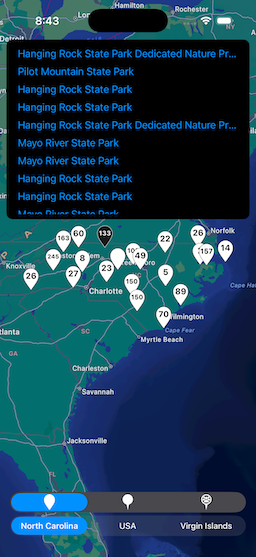
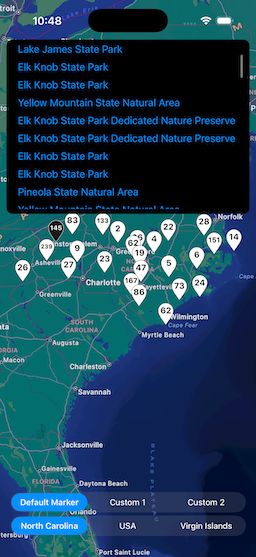
We now display alerts for both test harnesses.

diff --git a/Tests/SwiftUITestHarness/BJJM_SwiftUIMainView.swift b/Tests/SwiftUITestHarness/BJJM_SwiftUIMainView.swift
@@ -49,6 +49,8 @@ struct BJJM_BigJuJuMapViewController: UIViewControllerRepresentable {
      If true, multiple (aggregate) markers will display the number of elements aggregated. Default is true.
      */
     var displayNumbers = true
+    
+    var onTap: (@MainActor (_ item: any BigJuJuMapLocationProtocol) -> Void)? = nil
 
     /* ################################################################## */
     /**
@@ -72,7 +74,9 @@ struct BJJM_BigJuJuMapViewController: UIViewControllerRepresentable {
      - parameter context: The context (ignored)
      */
     func updateUIViewController(_ inUIViewController: BigJuJuMap.BigJuJuMapViewController, context: Context) {
-        guard let dataFrame = BJJM_LocationFactory.locationData(from: self.dataSetName) else { return }
+        guard let dataFrame = BJJM_LocationFactory.locationData(from: self.dataSetName),
+              let onTap
+        else { return }
         
         let locations: [any BigJuJuMapLocationProtocol] = dataFrame.rows.flatMap { inRow -> [any BigJuJuMapLocationProtocol] in
             guard let id = inRow.int("id"),
@@ -81,11 +85,8 @@ struct BJJM_BigJuJuMapViewController: UIViewControllerRepresentable {
                   let longitude = inRow.double("longitude")
             else { return [] }
 
-            // NOTE: We use a console print, so we don't have to do a bunch of stuff to escape the wrapped environment.
             return [
-                BJJM_MapLocation(id: id, name: name, latitude: latitude, longitude: longitude) { inItem in
-                    print("Tapped: \(inItem.name) @ \(inItem.location.coordinate.latitude), \(inItem.location.coordinate.longitude)")
-                }
+                BJJM_MapLocation(id: id, name: name, latitude: latitude, longitude: longitude) { inItem in Task { @MainActor in onTap(inItem) } }
             ]
         }
 
@@ -144,13 +145,28 @@ struct BJJM_SwiftUIMainView: View {
      The currently selected bottom segment.
      */
     @State private var _bottomIndex: Int = 0
+    
+    /* ################################################################## */
+    /**
+     This is true, when we want to display an alert, upon selecting a popover item.
+     */
+    @State private var _showingAlert: Bool = false
+    
+    /* ################################################################## */
+    /**
+     This is the text we want displayed in the alert.
+     */
+    @State private var _alertMessage: String = ""
 
     /* ################################################################## */
     /**
      This returns a view, with the map filling the screen, behind the two segmented switches.
      */
     var body: some View {
-        BJJM_BigJuJuMapViewController(markerNames: Self._topOptions[self._topIndex], dataSetName: Self._bottomOptions[self._bottomIndex])
+        BJJM_BigJuJuMapViewController(markerNames: Self._topOptions[self._topIndex], dataSetName: Self._bottomOptions[self._bottomIndex]) { inItem in
+            self._alertMessage = String(format: "SLUG-ALERT-FORMAT".localizedVariant, inItem.name)
+            self._showingAlert = true
+        }
             .ignoresSafeArea(.all)
             .safeAreaInset(edge: .bottom) {
                 VStack(spacing: 0) {
@@ -172,6 +188,11 @@ struct BJJM_SwiftUIMainView: View {
                 .padding(.horizontal, 16)
                 .background(.clear)
                 .tint(.accentColor)
+            }
+            .alert("SLUG-ALERT-HEADER".localizedVariant, isPresented: self.$_showingAlert) {
+                Button("SLUG-OK".localizedVariant, role: .cancel) { }
+            } message: {
+                Text(self._alertMessage)
             }
             .onAppear {
                 UISegmentedControl.appearance().selectedSegmentTintColor = UIColor(Color.accentColor)

diff --git a/Tests/UIKitTestHarness/BJJM_ViewController.swift b/Tests/UIKitTestHarness/BJJM_ViewController.swift
@@ -109,9 +109,15 @@ extension BJJM_ViewController {
                   let longitude = inRow.double("longitude")
             else { return nil }
             
-            // NOTE: We use a console print, so we maintain solidarity with our SwiftUI brother.
-            return BJJM_MapLocation(id: id, name: name, latitude: latitude, longitude: longitude) { inItem in
-                print("Tapped: \(inItem.name) @ \(inItem.location.coordinate.latitude), \(inItem.location.coordinate.longitude)")
+            return BJJM_MapLocation(id: id, name: name, latitude: latitude, longitude: longitude) { [weak self] inItem in
+                guard let self else { return }
+                let alertMessage = String(format: "SLUG-ALERT-FORMAT".localizedVariant, inItem.name)
+
+                DispatchQueue.main.async {
+                    let alert = UIAlertController(title: "SLUG-ALERT-HEADER".localizedVariant, message: alertMessage, preferredStyle: .alert)
+                    alert.addAction(UIAlertAction(title: "SLUG-OK".localizedVariant, style: .default))
+                    self.present(alert, animated: true)
+                }
             }
         }
         

diff --git a/README.md b/README.md
@@ -10,4 +10,4 @@ It also allows a "drop in" high-functionality map for UIKit projects.
 
 ## How Does It Work?
 
-The implementation is provided as a dynamic-linked [framework](), that instantiates a single [UIViewController](https://developer.apple.com/documentation/UIKit/UIViewController) instance.
+The implementation is provided as a static [framework](), instantiating an instance of a [UIViewController](https://developer.apple.com/documentation/UIKit/UIViewController) subclass.
